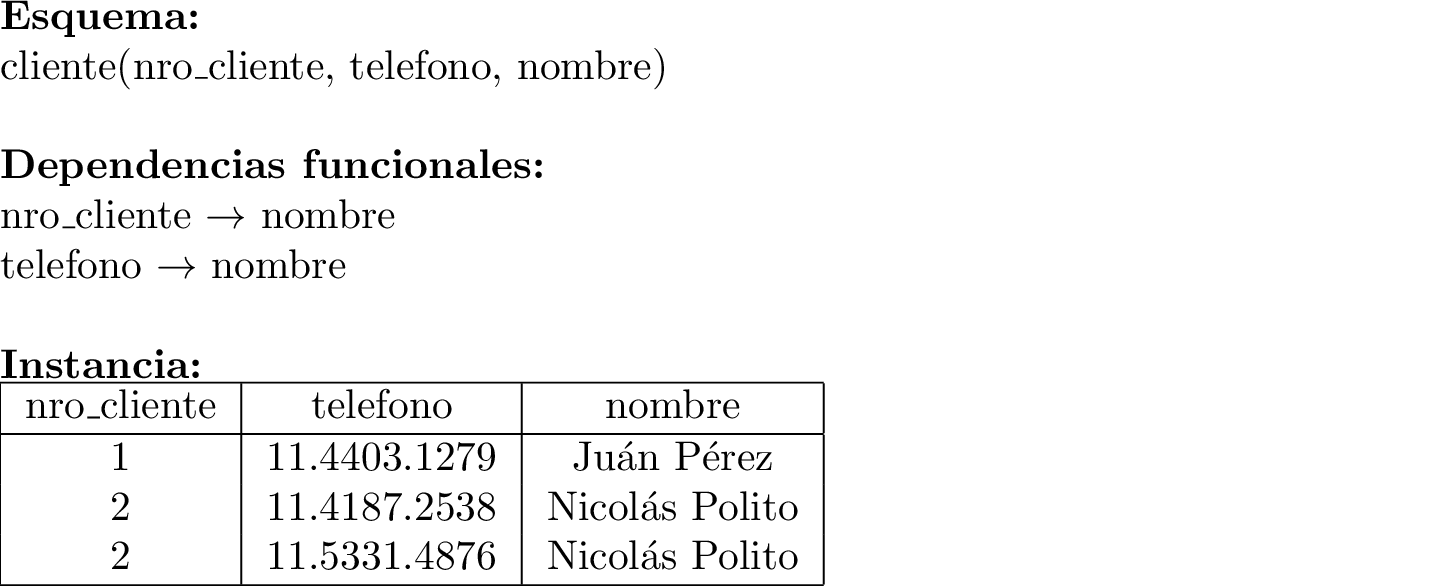
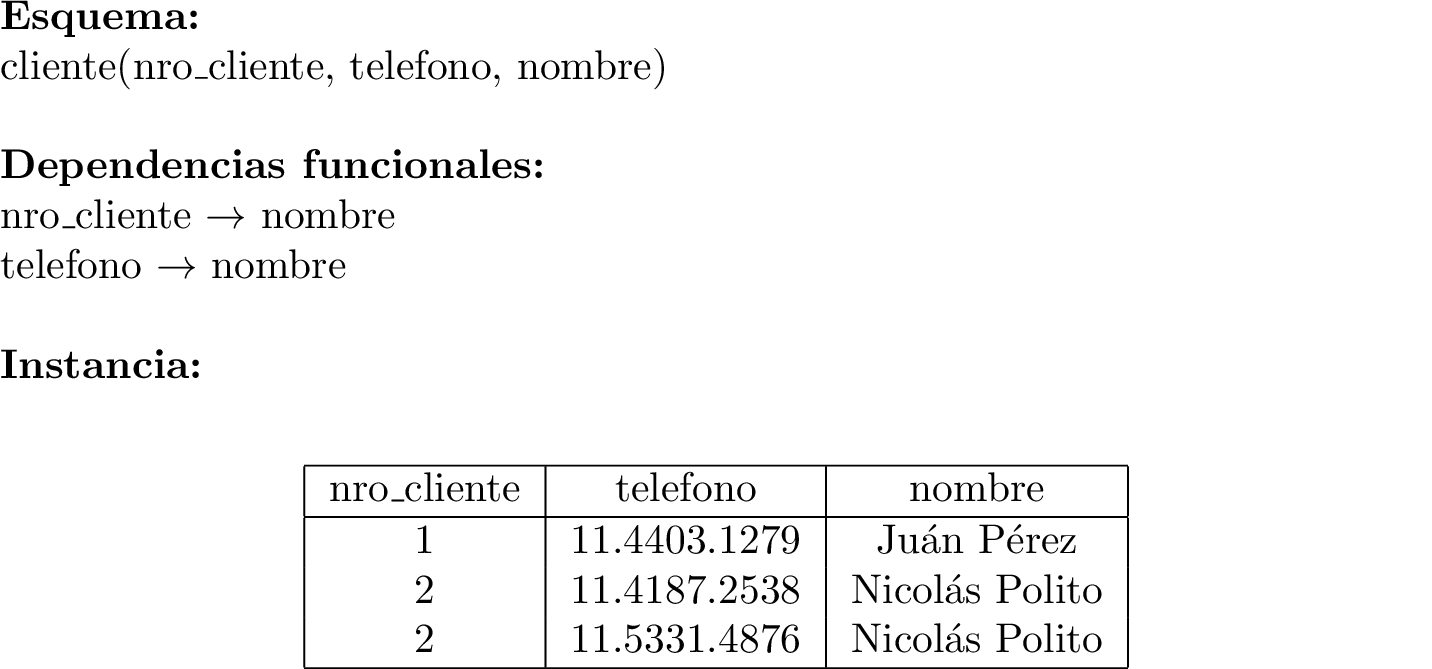
Misc fixes

diff --git a/present/tex/df-regla-falsa-contraejemplo.tex b/present/tex/df-regla-falsa-contraejemplo.tex
@@ -10,13 +10,12 @@ nro\_cliente $\rightarrow$ nombre\\
 telefono $\rightarrow$ nombre\\
 
 \textbf{Instancia:}\\
-\begin{tabular}{ | c | c | c |}
-  \hline			
-  nro\_cliente & telefono & nombre \\
-  \hline			
-  1 & 11.4403.1279 & Ju\'an P\'erez \\
-  2 & 11.4187.2538 & Nicol\'as Polito \\
-  2 & 11.5331.4876 & Nicol\'as Polito \\
-  \hline  
+\begin{center}
+\begin{tabular}{| c | c | c |}\hline			
+	nro\_cliente & telefono & nombre \\\hline			
+	1 & 11.4403.1279 & Ju\'an P\'erez \\
+	2 & 11.4187.2538 & Nicol\'as Polito \\
+	2 & 11.5331.4876 & Nicol\'as Polito \\\hline  
 \end{tabular}
+\end{center}
 \end{document}

diff --git a/present/tex/df-superclaves-claves.tex b/present/tex/df-superclaves-claves.tex
@@ -1,3 +1,4 @@
+\pdfoutput=1
 \documentclass[preview]{standalone}
 \usepackage{amsmath}
 \usepackage{amssymb}
@@ -6,7 +7,7 @@
 \begin{itemize}
 \item $X\rightarrow R \Longrightarrow X \text{ es superclave de } R$
 \item $X^+ = R \Longrightarrow X \text{ es superclave de } R$
-\item $\nexists \text{ } Y \subset X \text{ tal que } Y\rightarrow R \Longrightarrow X \text{ es clave de } R$
+\item $\nexists \text{ } Y \subset X \text{ tal que } X\rightarrow R \Longrightarrow X \text{ es clave de } R$
 \end{itemize}
 $R$ puede tener una o varias claves, a las que llamamos \textit{claves candidatas}.
 \end{document}

diff --git a/present/tex/df-superclaves-claves-ejemplo-2.tex b/present/tex/df-superclaves-claves-ejemplo-2.tex
@@ -8,12 +8,12 @@
 estudiante(legajo, nombre)\\
 
 \textbf{Conjunto de DF:}\\
-$F$=\{legajo $\rightarrow$ nombre)\\
+$F$=\{legajo $\rightarrow$ nombre\}\\
 
 \textbf{Clausuras:}\\
-$\text{legajo nombre}^+ =\big\{\text{legajo, nombre}\big\}$\\
-$\text{legajo}^+ = \big\{\text{legajo, nombre}\big\}$\\
-$\text{nombre}^+ = \big\{\text{nombre}\big\}$\\
+$\{\text{legajo, nombre}\}^+ =\big\{\text{legajo, nombre}\big\}$\\
+$\{\text{legajo}\}^+ = \big\{\text{legajo, nombre}\big\}$\\
+$\{\text{nombre}\}^+ = \big\{\text{nombre}\big\}$\\
 
 \textbf{Superclaves: } \\
 $\big\{\text{legajo, nombre}\big\}$\\ 

diff --git a/present/tex/df-clausura-atributos-ejemplo-2.tex b/present/tex/df-clausura-atributos-ejemplo-2.tex
@@ -13,6 +13,6 @@ legajo\_est, materia $\rightarrow$ fecha\_inscripcion\\
 legajo\_est, materia, fecha\_examen $\rightarrow$ nota\\
 
 \textbf{Clausuras:}\\
-$\text{legajo\_est}^+ = \big\{$legajo\_es, nom\_est$\big\}$\\
-$\text{legajo\_est materia}^+ = \big\{$legajo\_es, materia, nom\_est, fecha\_inscripcion$\big\}$\\
+$\big\{\text{legajo\_est}\big\}^+ = \big\{$legajo\_es, nom\_est$\big\}$\\
+$\big\{\text{legajo\_est, materia}\big\}^+ = \big\{$legajo\_es, materia, nom\_est, fecha\_inscripcion$\big\}$\\
 \end{document}

diff --git a/present/tex/df-superclaves-claves-ejemplo.tex b/present/tex/df-superclaves-claves-ejemplo.tex
@@ -9,12 +9,12 @@
 estudiante(legajo, nombre)\\
 
 \textbf{Conjunto de DF:}\\
-$F$=\{legajo $\rightarrow$ nombre)\\
+$F$=\{legajo $\rightarrow$ nombre\}\\
 
 \textbf{Clausuras:}\\
-$\text{legajo nombre}^+ = \big\{\dots$\\
-$\text{legajo}^+ = \big\{\dots$\\
-$\text{nombre}^+ = \big\{\dots$\\
+$\{\text{legajo, nombre}\}^+ = \big\{\dots$\\
+$\{\text{legajo}\}^+ = \big\{\dots$\\
+$\{\text{nombre}\}^+ = \big\{\dots$\\
 
 \textbf{Superclave(s):}\\
 $\dots$\\

diff --git a/present/tex/df-regla-falsa-contraejemplo-2.tex b/present/tex/df-regla-falsa-contraejemplo-2.tex
@@ -1,14 +1,16 @@
+\pdfoutput=1
 \documentclass[preview]{standalone}
 
 \begin{document}
 \textbf{Esquema:}\\
-R (A, B, C)\\
+R(A, B, C)\\
 
 \textbf{Dependencias funcionales:}\\
 A $\rightarrow$ C\\
 B $\rightarrow$ C\\
 
 \textbf{Instancia:}\\
+\begin{center}
 \begin{tabular}{ | c | c | c |}
   \hline			
   A & B & C \\
@@ -19,4 +21,5 @@ B $\rightarrow$ C\\
   2 & 4 & 5 \\
   \hline  
 \end{tabular}
+\end{center}
 \end{document}

diff --git a/present/tex/df-clausura-atributos-ejemplo.tex b/present/tex/df-clausura-atributos-ejemplo.tex
@@ -13,6 +13,6 @@ legajo\_est, materia $\rightarrow$ fecha\_inscripcion\\
 legajo\_est, materia, fecha\_examen $\rightarrow$ nota\\
 
 \textbf{Clausuras:}\\
-$\text{legajo\_est}^+ = \big\{\dots$\\
-$\text{legajo\_est materia}^+ = \big\{\dots$
+$\big\{\text{legajo\_est}\big\}^+ = \big\{\dots$\\
+$\big\{\text{legajo\_est, materia}\big\}^+ = \big\{\dots$
 \end{document}

diff --git a/present/tex/df-clausura-df-ejemplo-2.tex b/present/tex/df-clausura-df-ejemplo-2.tex
@@ -5,7 +5,7 @@
 
 \begin{document}
 estudiante(legajo, nombre)\\
-$F$=\{legajo $\rightarrow$ nombre)\\
+$F$=\{legajo $\rightarrow$ nombre\}\\
 
 \textbf{?`Qu\'e conjunto es $F^+$?}\\
 \begin{align*}

diff --git a/present/tex/df-clausura-df-ejemplo.tex b/present/tex/df-clausura-df-ejemplo.tex
@@ -3,7 +3,7 @@
 
 \begin{document}
 estudiante(legajo, nombre)\\
-$F$=\{legajo $\rightarrow$ nombre)\\
+$F$=\{legajo $\rightarrow$ nombre\}\\
 
 \textbf{?`Qu\'e conjunto es $F^+$?}\\
 
